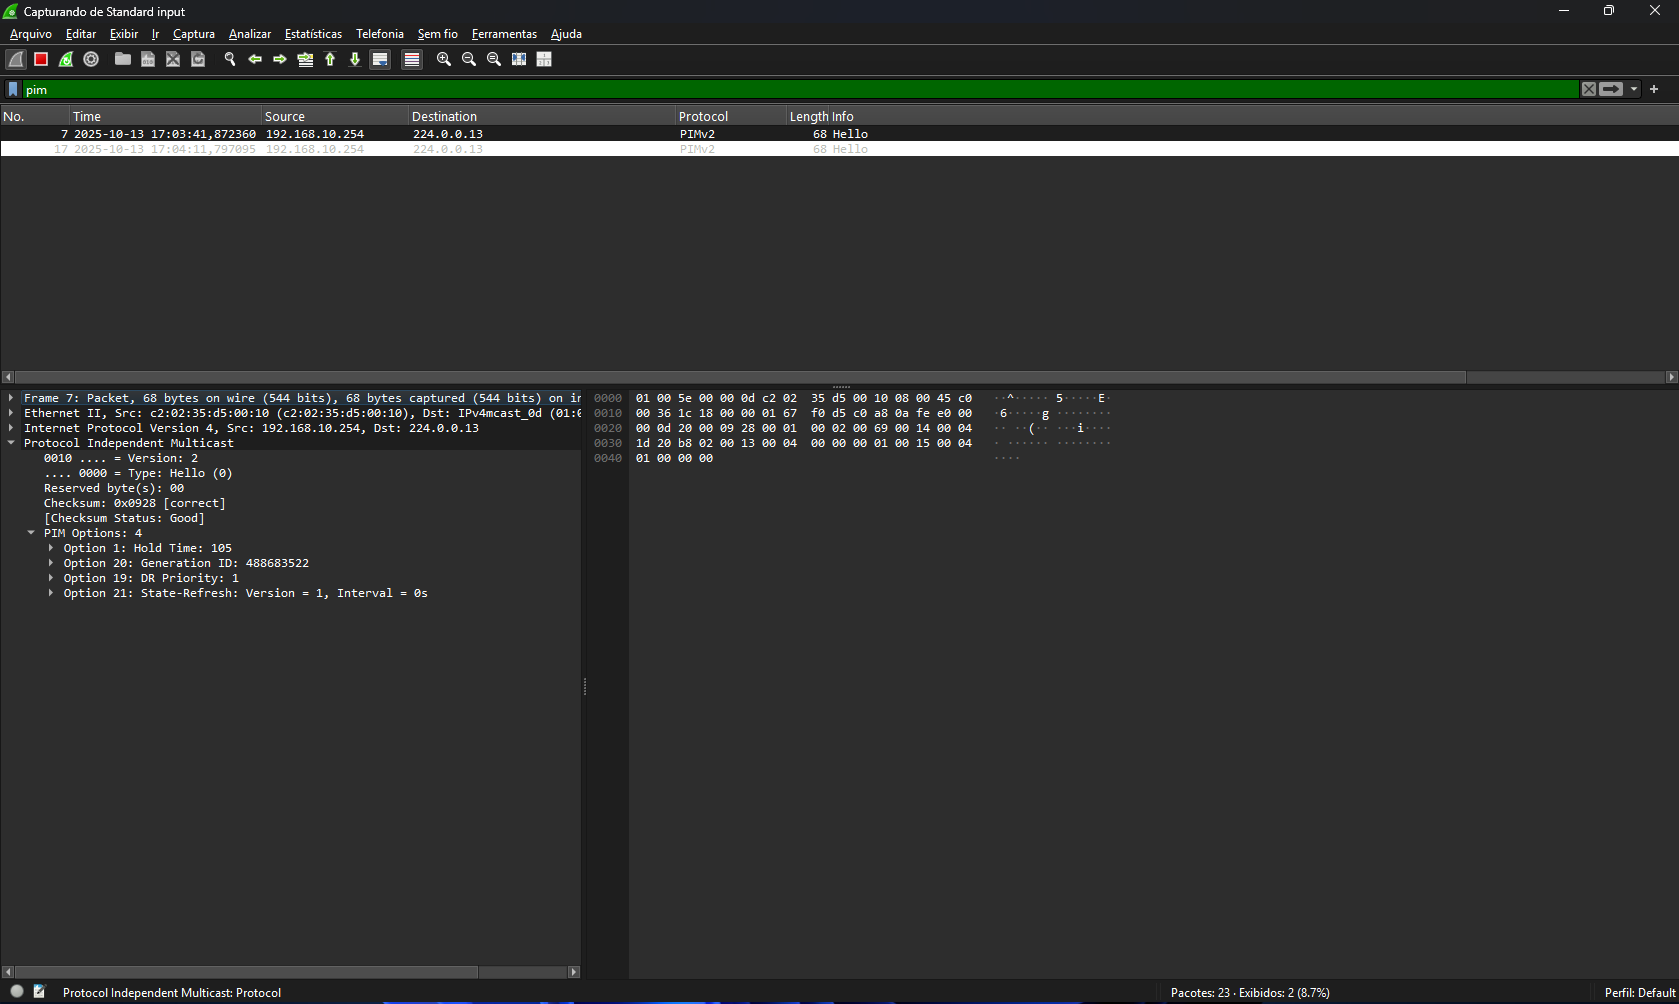
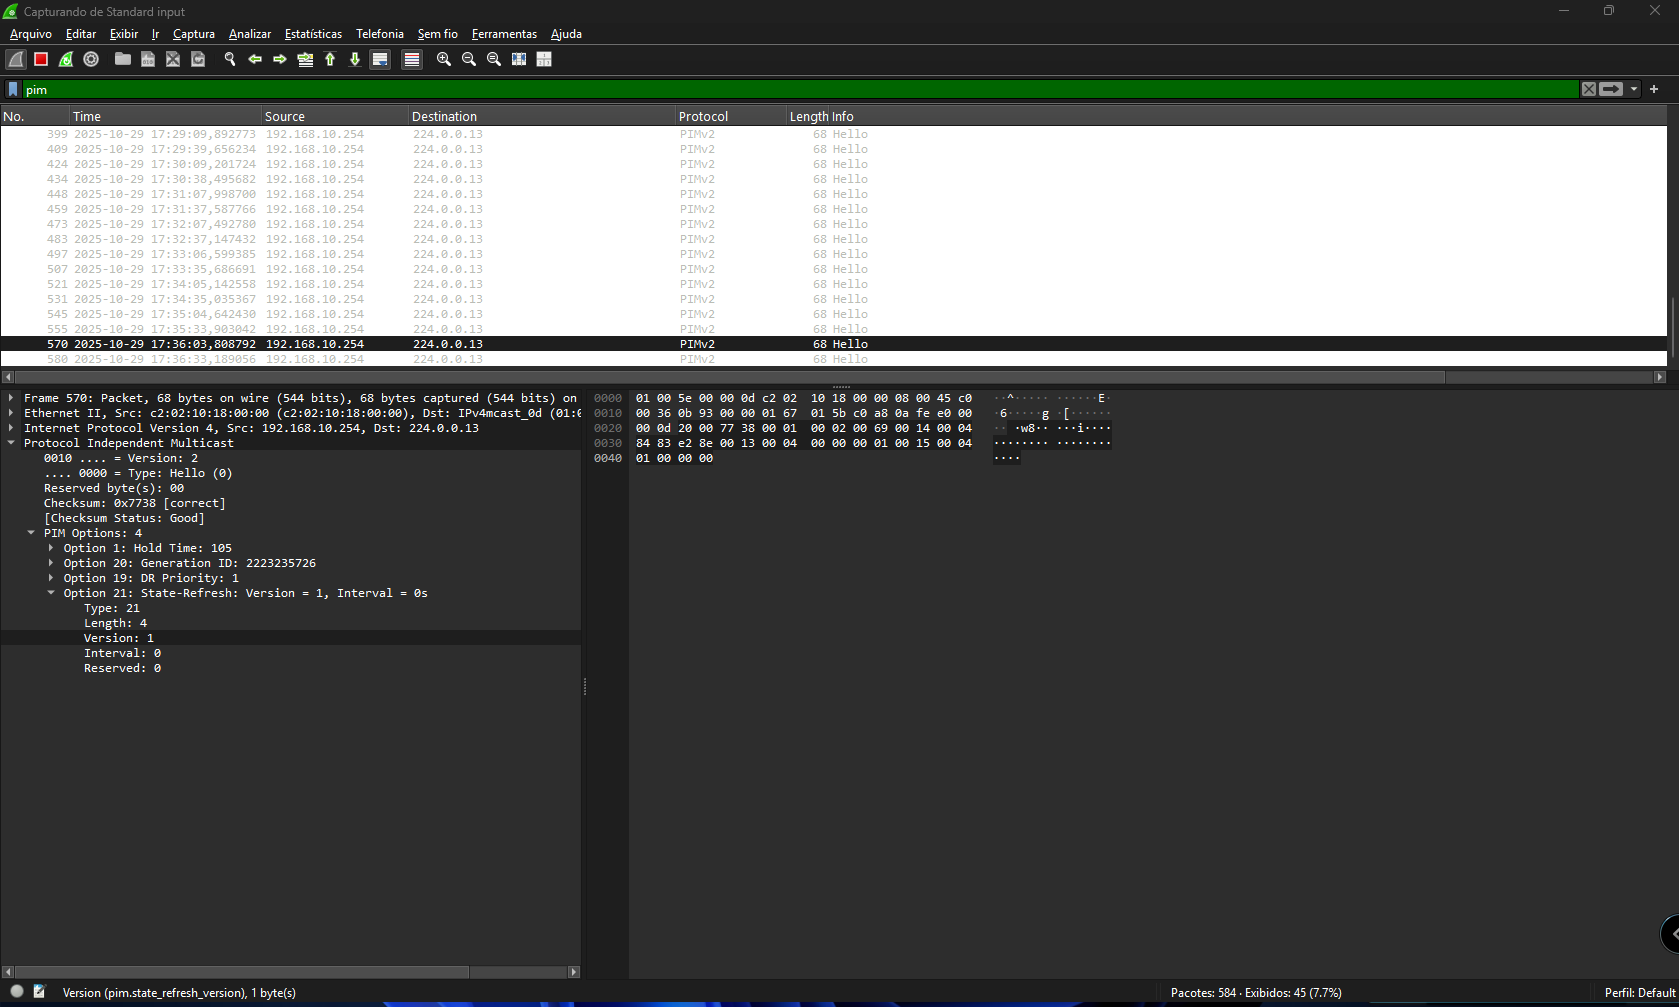
Alterado o README.md

diff --git a/CCNP 350-401 ENCOR/03 - Infrastructure/01 - Multicast/06 - Exemplo Pratico - Pim Sparse Mode/README.md b/CCNP 350-401 ENCOR/03 - Infrastructure/01 - Multicast/06 - Exemplo Pratico - Pim Sparse Mode/README.md
@@ -18,6 +18,11 @@
   - [🧩 Como funciona o Auto-RP da Cisco](#-como-funciona-o-auto-rp-da-cisco)
   - [1⃣ Os dois papéis do Auto-RP](#1⃣-os-dois-papéis-do-auto-rp)
   - [2⃣ Comunicação entre eles](#2⃣-comunicação-entre-eles)
+  - [🧠 Como o domínio decide quem será o RP](#-como-o-domínio-decide-quem-será-o-rp)
+  - [3⃣ Comandos de configuração (modo Auto-RP)](#3⃣-comandos-de-configuração-modo-auto-rp)
+    - [💡 A pegadinha do nome “Auto-RP”](#-a-pegadinha-do-nome-auto-rp)
+  - [Ativando o protocolo PIM Sparse Mode](#ativando-o-protocolo-pim-sparse-mode)
+    - [🧠 Entendendo a Eleição do Designated Router (DR) no PIM Sparse Mode](#-entendendo-a-eleição-do-designated-router-dr-no-pim-sparse-mode)
   - [Função do DR no PIM Dense Mode](#função-do-dr-no-pim-dense-mode)
     - [Contexto: Por que o PIM precisa de um DR?](#contexto-por-que-o-pim-precisa-de-um-dr)
     - [Processo de Eleição do DR no PIM Dense Mode](#processo-de-eleição-do-dr-no-pim-dense-mode)
@@ -204,7 +209,7 @@ Após a formação inicial da árvore compartilhada (*,G) via RP, os roteadores 
 
 ### Testes Preliminares
 
-Como feito no exemplo anterior, vamos realizar um teste de comunicação entre todos os equipamentos com o ping só para garantir a comunicação.    
+Como feito no exemplo anterior, vamos realizar um teste de comunicação entre todos os equipamentos com o ping só para garantir a comunicação.  
 **OBS:** nos roteadores eu configurei interfaces de LOOPABCK. Então R01 tem o ip 1.1.1.1 /32, R02 tem o ip 2.2.2.2 /32, R03 tem o ip 3.3.3.3 /32, R04 4.4.4.4/32 e R05 5.5.5.5/32 .  
 
 ![01](Imagens/01.png)
@@ -229,7 +234,7 @@ R01#show ip multicast
 R01#  
 ```
 
-Agora que temos o roteamento multicast ativo, precisamos ativar o protocolo **PIM**. Esse protocolo deve ser ativado nas interfaces onde a comunicação ira ocorrer.  
+**ONS:** Agora que temos o roteamento multicast ativo, precisamos ativar o protocolo **PIM**. Esse protocolo deve ser ativado nas interfaces onde a comunicação ira ocorrer. Então, repetir o processo de R01 a R05.
 
 ### Onde o PIM deve ser ativado
 
@@ -296,33 +301,194 @@ Ele então escolhe um ou mais RPs válidos e repassa essa informação para todo
   
 Todos os roteadores escutam o **224.0.1.39** e, assim, aprendem qual é o RP ativo para cada grupo multicast.
 
--------------------------------------------------------------------------
+## 🧠 Como o domínio decide quem será o RP
+
+O Mapping Agent é quem escolhe o RP com base nos anúncios que recebe.  
+A seleção normalmente segue critérios simples:  
+
+- Todos os **C-RPs** válidos são incluídos na tabela de mapeamento.
+- Cada grupo multicast pode ter um **RP diferente** (dependendo do range anunciado).
+
+Se houver mais de um C-RP para o mesmo grupo, o MA usa o endereço IP mais alto como critério de desempate.  
+
+💡 **Em laboratório, normalmente deixamos apenas um Mapping Agent e um ou dois Candidate RPs — assim dá pra ver a eleição e o tráfego de anúncios claramente.**
+
+## 3⃣ Comandos de configuração (modo Auto-RP)
+
+### 💡 A pegadinha do nome “Auto-RP”
+
+Apesar do nome “Auto-RP” sugerir que tudo é automático, ele não é totalmente automático.  
+O que o Auto-RP automatiza é a descoberta e distribuição do RP dentro do domínio PIM-SM — ou seja, os roteadores aprendem automaticamente quem é o RP sem precisar do comando manual ip pim rp-address.  
+Mas para isso acontecer, alguém precisa gerar e propagar essa informação — e é aí que entram os dois papéis:  
+
+- **Candidate RP (C-RP)** → quem “se oferece” para ser RP.
+- **Mapping Agent (MA)** → quem “ouve”, escolhe e anuncia o vencedor.
+
+**OBS:** Esses papéis devem ser definidos manualmente pelo administrador.  
+  
+🧠 **Analogia simples (pensa como uma eleição)**  
+  
+Imagine que o domínio PIM é uma cidade:  
+
+- Vários roteadores podem se candidatar a prefeito **(Candidate RP)**.
+- Mas precisa ter um cartório eleitoral **(Mapping Agent)** que receba as candidaturas e divulgue quem foi eleito para toda a cidade.
+
+👉 **O processo de votação e divulgação é automático — mas os papéis são definidos manualmente**.  
+Sem pelo menos **um Mapping Agent e um Candidate RP**, não há eleição alguma.  
+  
+📊 **O que é automático e o que é manual**  
+
+| Ação                               | Automático? | Quem decide                 |
+|------------------------------------|-------------|-----------------------------|
+| Escolher quem é Candidate RP       | ❌ Não      | Administrador              |
+| Escolher quem é Mapping Agent      | ❌ Não      | Administrador              |
+| Eleger o RP (entre os candidatos)  | ✅ Sim      | Mapping Agent              |
+| Distribuir o mapeamento para todos | ✅ Sim      | Mapping Agent              |
+| Aprender o RP e atualizar a tabela | ✅ Sim      | Todos os roteadores PIM-SM |
+
+🧱 **Em projeto real (ou laboratório bem documentado)**
+  
+Essa escolha deve ser feita pela pelo administrador e precisa estar no projeto.  
+No nosso caso, com cinco roteadores, uma topologia em anel e um laboratório educacional, uma boa prática é:  
+
+| Função                 | Roteador             | Justificativa                                                        |
+|------------------------|----------------------|----------------------------------------------------------------------|
+| Mapping Agent          | R01                  | Está próximo da fonte multicast (Server) e tem conectividade central |
+| Candidate RP           | R02                  | Está no meio do domínio PIM, facilita convergência                   |
+| Demais (R03, R04, R05) | Participantes PIM-SM | Aprendem o RP automaticamente via 224.0.1.39                         |  
+
+⚙ **O que o Auto-RP faz automaticamente**  
+  
+Depois que você define quem é C-RP e MA:  
+
+- O **C-RP** envia anúncios PIM Auto-RP para **224.0.1.40**.
+- O **MA** escuta, escolhe o RP e envia o mapeamento para **224.0.1.39**.
+
+Todos os roteadores escutam 224.0.1.39 e aprendem:  
+
+- “Para o grupo 239.1.1.1, o RP é 2.2.2.2”.
+- Se o C-RP cair, o MA detecta a ausência dos anúncios e remove o RP do mapeamento.
+
+👉 **Ou seja: a distribuição e manutenção são automáticas, mas a existência do MA e do C-RP depende de você configurá-los.**
+
+## Ativando o protocolo PIM Sparse Mode
+
+Agora que entendemos a lógica, vamos ativar o protocolo em todas as interfaces que participam do multicast nos roteadores, de R01 a R05.
 
 ```ios
- R01>ena  
- R01#show ip int br  
-  Interface                  IP-Address      OK? Method Status                Protocol  
-  FastEthernet0/0            10.0.0.1        YES NVRAM  up                    up  
-  FastEthernet0/1            10.0.0.9        YES NVRAM  up                    up  
-  FastEthernet1/0            192.168.10.254  YES NVRAM  up                    up  
-  Loopback0                  1.1.1.1         YES NVRAM  up                    up  
- R01#conf t  
- Enter configuration commands, one per line.  End with CNTL/Z.  
- R01(config)#int f0/0  
- R01(config-if)#ip pim dense-mode  
- R01(config-if)#  
- *Mar  1 03:53:26.735: %PIM-5-DRCHG: DR change from neighbor 0.0.0.0 to 10.0.0.1 on interface FastEthernet0/0  
- R01(config-if)#int f0/1  
- R01(config-if)#ip pim dense-mode  
- R01(config-if)#  
- *Mar  1 03:53:48.687: %PIM-5-DRCHG: DR change from neighbor 0.0.0.0 to 10.0.0.9 on interface FastEthernet0/1  
- R01(config-if)#ip pim  
- R01(config-if)#int f1/0  
- R01(config-if)#ip pim dense-mode  
- R01(config-if)#  
- *Mar  1 03:54:21.635: %PIM-5-DRCHG: DR change from neighbor 0.0.0.0 to 192.168.10.254 on interface FastEthernet1/0  
- R01(config-if)#  
+R01#show ip int br
+Interface                  IP-Address      OK? Method Status                Protocol
+FastEthernet0/0            192.168.10.254  YES NVRAM  up                    up
+FastEthernet0/1            10.0.0.1        YES NVRAM  up                    up
+FastEthernet1/0            10.0.0.18       YES NVRAM  up                    up
+Loopback0                  1.1.1.1         YES NVRAM  up                    up
+R01#conf t
+Enter configuration commands, one per line.  End with CNTL/Z.
+R01(config)#int f0/0
+R01(config-if)#ip pim sparse-mode
+R01(config-if)#
+*Mar  1 02:00:05.663: %PIM-5-DRCHG: DR change from neighbor 0.0.0.0 to 192.168.10.254 on interface FastEthernet0/0
+R01(config-if)#int f0/1
+R01(config-if)#ip pim sparse-mode
+R01(config-if)#
+*Mar  1 02:00:20.615: %PIM-5-DRCHG: DR change from neighbor 0.0.0.0 to 10.0.0.1 on interface FastEthernet0/1
+R01(config-if)#int f1/0
+R01(config-if)#ip pim sparse-mode
+R01(config-if)#
+*Mar  1 02:00:36.563: %PIM-5-DRCHG: DR change from neighbor 0.0.0.0 to 10.0.0.18 on interface FastEthernet1/0
+R01(config-if)#
 ```
+
+Agora que o **PIM Sparse-Mode** foi ativado, vamos analisar a tabela de **roteamento multicast:**
+
+```ios
+R01#show ip mrout
+IP Multicast Routing Table
+Flags: D - Dense, S - Sparse, B - Bidir Group, s - SSM Group, C - Connected,
+       L - Local, P - Pruned, R - RP-bit set, F - Register flag,
+       T - SPT-bit set, J - Join SPT, M - MSDP created entry,
+       X - Proxy Join Timer Running, A - Candidate for MSDP Advertisement,
+       U - URD, I - Received Source Specific Host Report,
+       Z - Multicast Tunnel, z - MDT-data group sender,
+       Y - Joined MDT-data group, y - Sending to MDT-data group
+Outgoing interface flags: H - Hardware switched, A - Assert winner
+ Timers: Uptime/Expires
+ Interface state: Interface, Next-Hop or VCD, State/Mode
+
+(*, 224.0.1.40), 00:15:57/00:02:04, RP 0.0.0.0, flags: DCL
+  Incoming interface: Null, RPF nbr 0.0.0.0
+  Outgoing interface list:
+    FastEthernet0/0, Forward/Sparse, 00:15:57/00:02:04
+
+R01#
+```
+
+Então eu realizei uma captura de pacotes na interface F0/0 de R01.  
+
+![Whireshark](Imagens/02.png)  
+
+Então podemos verificar que o grupo **224.0.1.40** foi ativado.  
+
+### 🧠 Entendendo a Eleição do Designated Router (DR) no PIM Sparse Mode
+
+Quando ativamos o **PIM Sparse Mode** nas interfaces, cada rede multicast (LAN) com mais de um roteador participante precisa escolher um roteador responsável por interagir com os hosts locais e com o **RP (Rendezvous Point)**.  
+Esse roteador é chamado de **Designated Router (DR).**  
+  
+🔍 **O que é o DR**  
+  
+O Designated Router tem duas funções principais:  
+
+| Situação                               | Função do DR                                                                                     |
+|----------------------------------------|--------------------------------------------------------------------------------------------------|
+| Lado dos receptores (hosts multicast)  | Recebe mensagens IGMP Report dos hosts interessados e envia mensagens PIM Join em direção ao RP. |
+| Lado das fontes (servidores multicast) | Detecta tráfego multicast local e envia PIM Register diretamente ao RP.                          |  
+
+⚙ **Como ocorre a eleição do DR**  
+  
+A eleição do DR é feita automaticamente entre todos os roteadores PIM que compartilham a mesma rede multicast.  
+
+🔸 Critério de eleição:  
+  
+- O roteador com o maior endereço IP ativo na interface vence a eleição.
+- Em caso de empate (endereços iguais, o que é raro), o endereço de Router-ID PIM (geralmente a Loopback) é usado como desempate.
+
+🔸 Exemplo real do log:  
+
+```ios
+*Mar  1 02:00:36.563: %PIM-5-DRCHG: DR change from neighbor 0.0.0.0 to 10.0.0.18 on interface FastEthernet1/0
+```
+
+🔹 **Interpretação:**  
+
+- Houve uma mudança de **DR** na interface FastEthernet1/0.
+- O roteador **10.0.0.18** foi eleito como o novo Designated Router.
+- O endereço **0.0.0.0** indica que antes não havia DR definido (primeira eleição).  
+  
+🚫 **Não existe BDR no PIM**
+  
+Diferente do **OSPF, o PIM não possui Backup Designated Router (BDR)**.  
+Somente um DR é responsável pela rede.  
+  
+Se o DR atual falhar, os demais roteadores detectam a ausência de mensagens **PIM Hello (por padrão a cada 30 segundos)** e realizam uma nova eleição automaticamente.  
+O roteador com o próximo IP mais alto assume o papel de DR sem interrupção perceptível no domínio multicast.  
+  
+🧭 **Resumo prático**
+
+| Item                         | PIM Dense Mode             | PIM Sparse Mode          |
+|------------------------------|----------------------------|--------------------------|
+| DR existe?                   | Sim, mas é pouco relevante | ✅ Sim, papel essencial |
+| BDR existe?                  | ❌ Não                     | ❌ Não                  |
+| Flood de tráfego             | ✅ Sim                     | ❌ Não                  |
+| Comunicação com RP           | ❌ Não usa RP              | ✅ Sim, feita pelo DR   |
+| Envio de PIM Join / Register | Todos enviam               | Apenas o DR envia        |
+
+Então podemos observar esse comportamento através da captura de pacotes onde o Whireshark foi ativado na interface F0/0 de R01.  
+
+![Whireshark](Imagens/03.png)
+
+-------------------------------------------------------------------------
+
+
 
 Agora que ativamos o **PIM DENSE-MODE** podemos observar que nos é exibida uma mensagem de aviso (log nível 5)  
   
